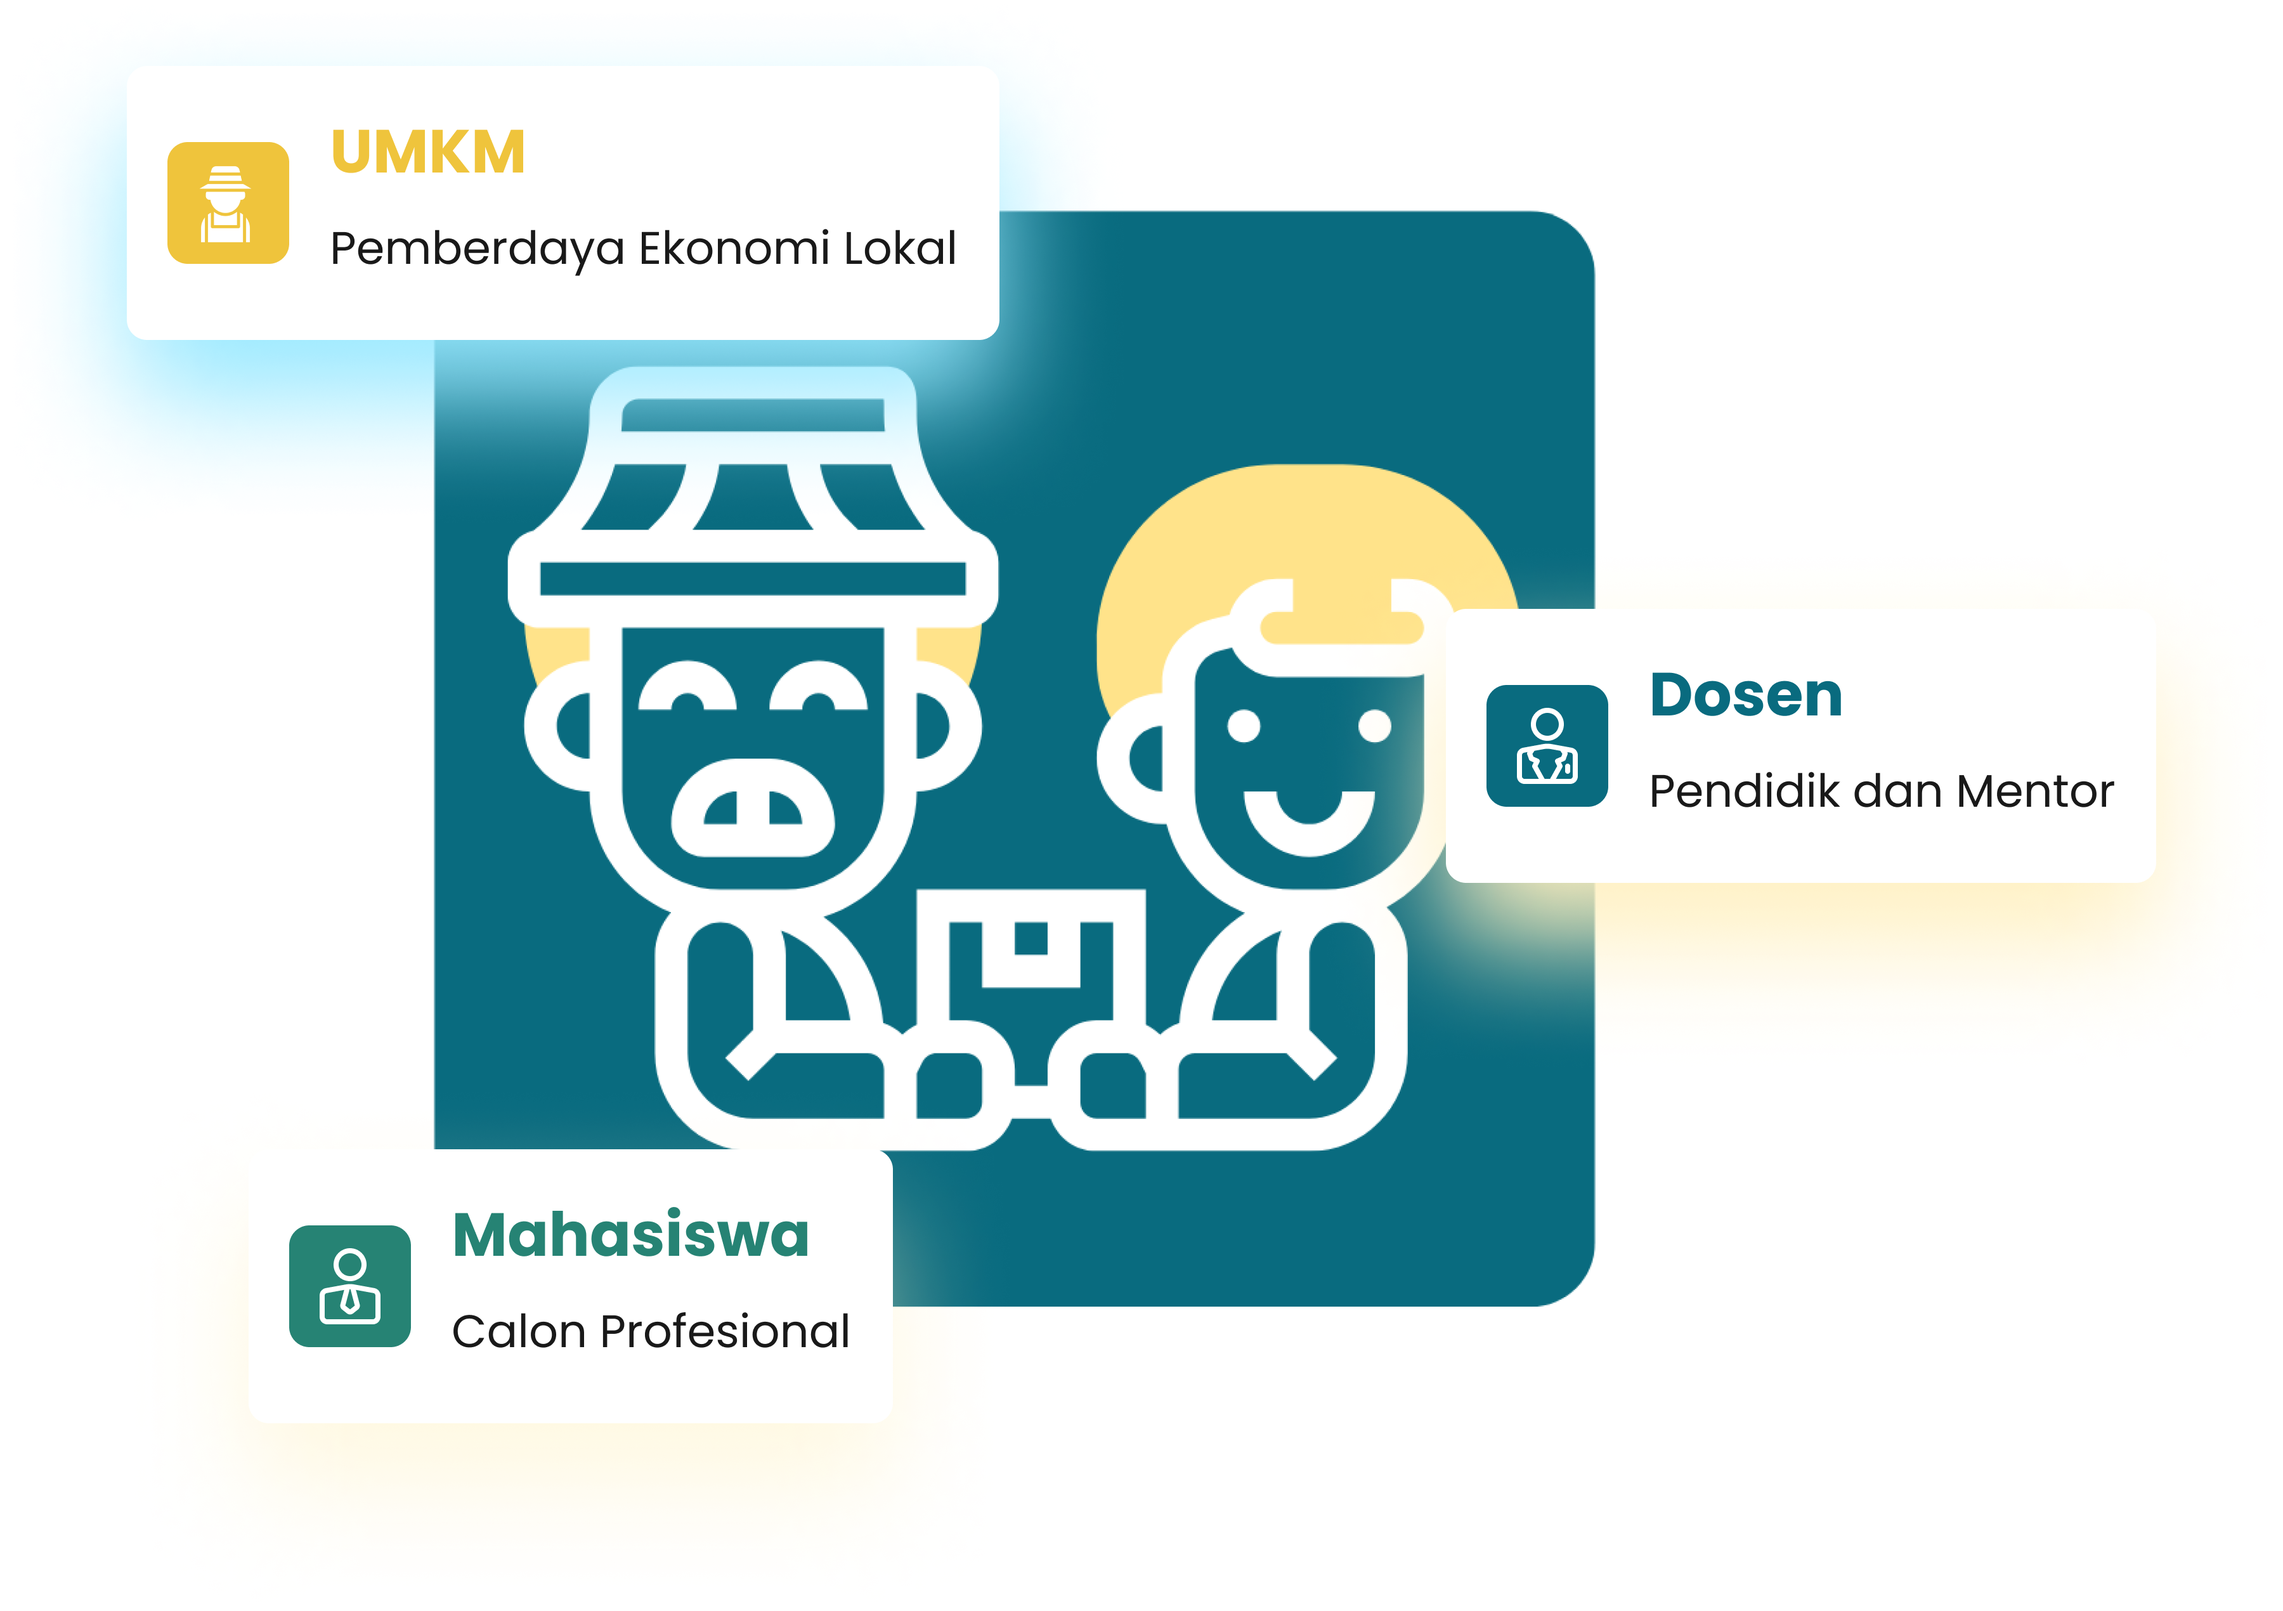
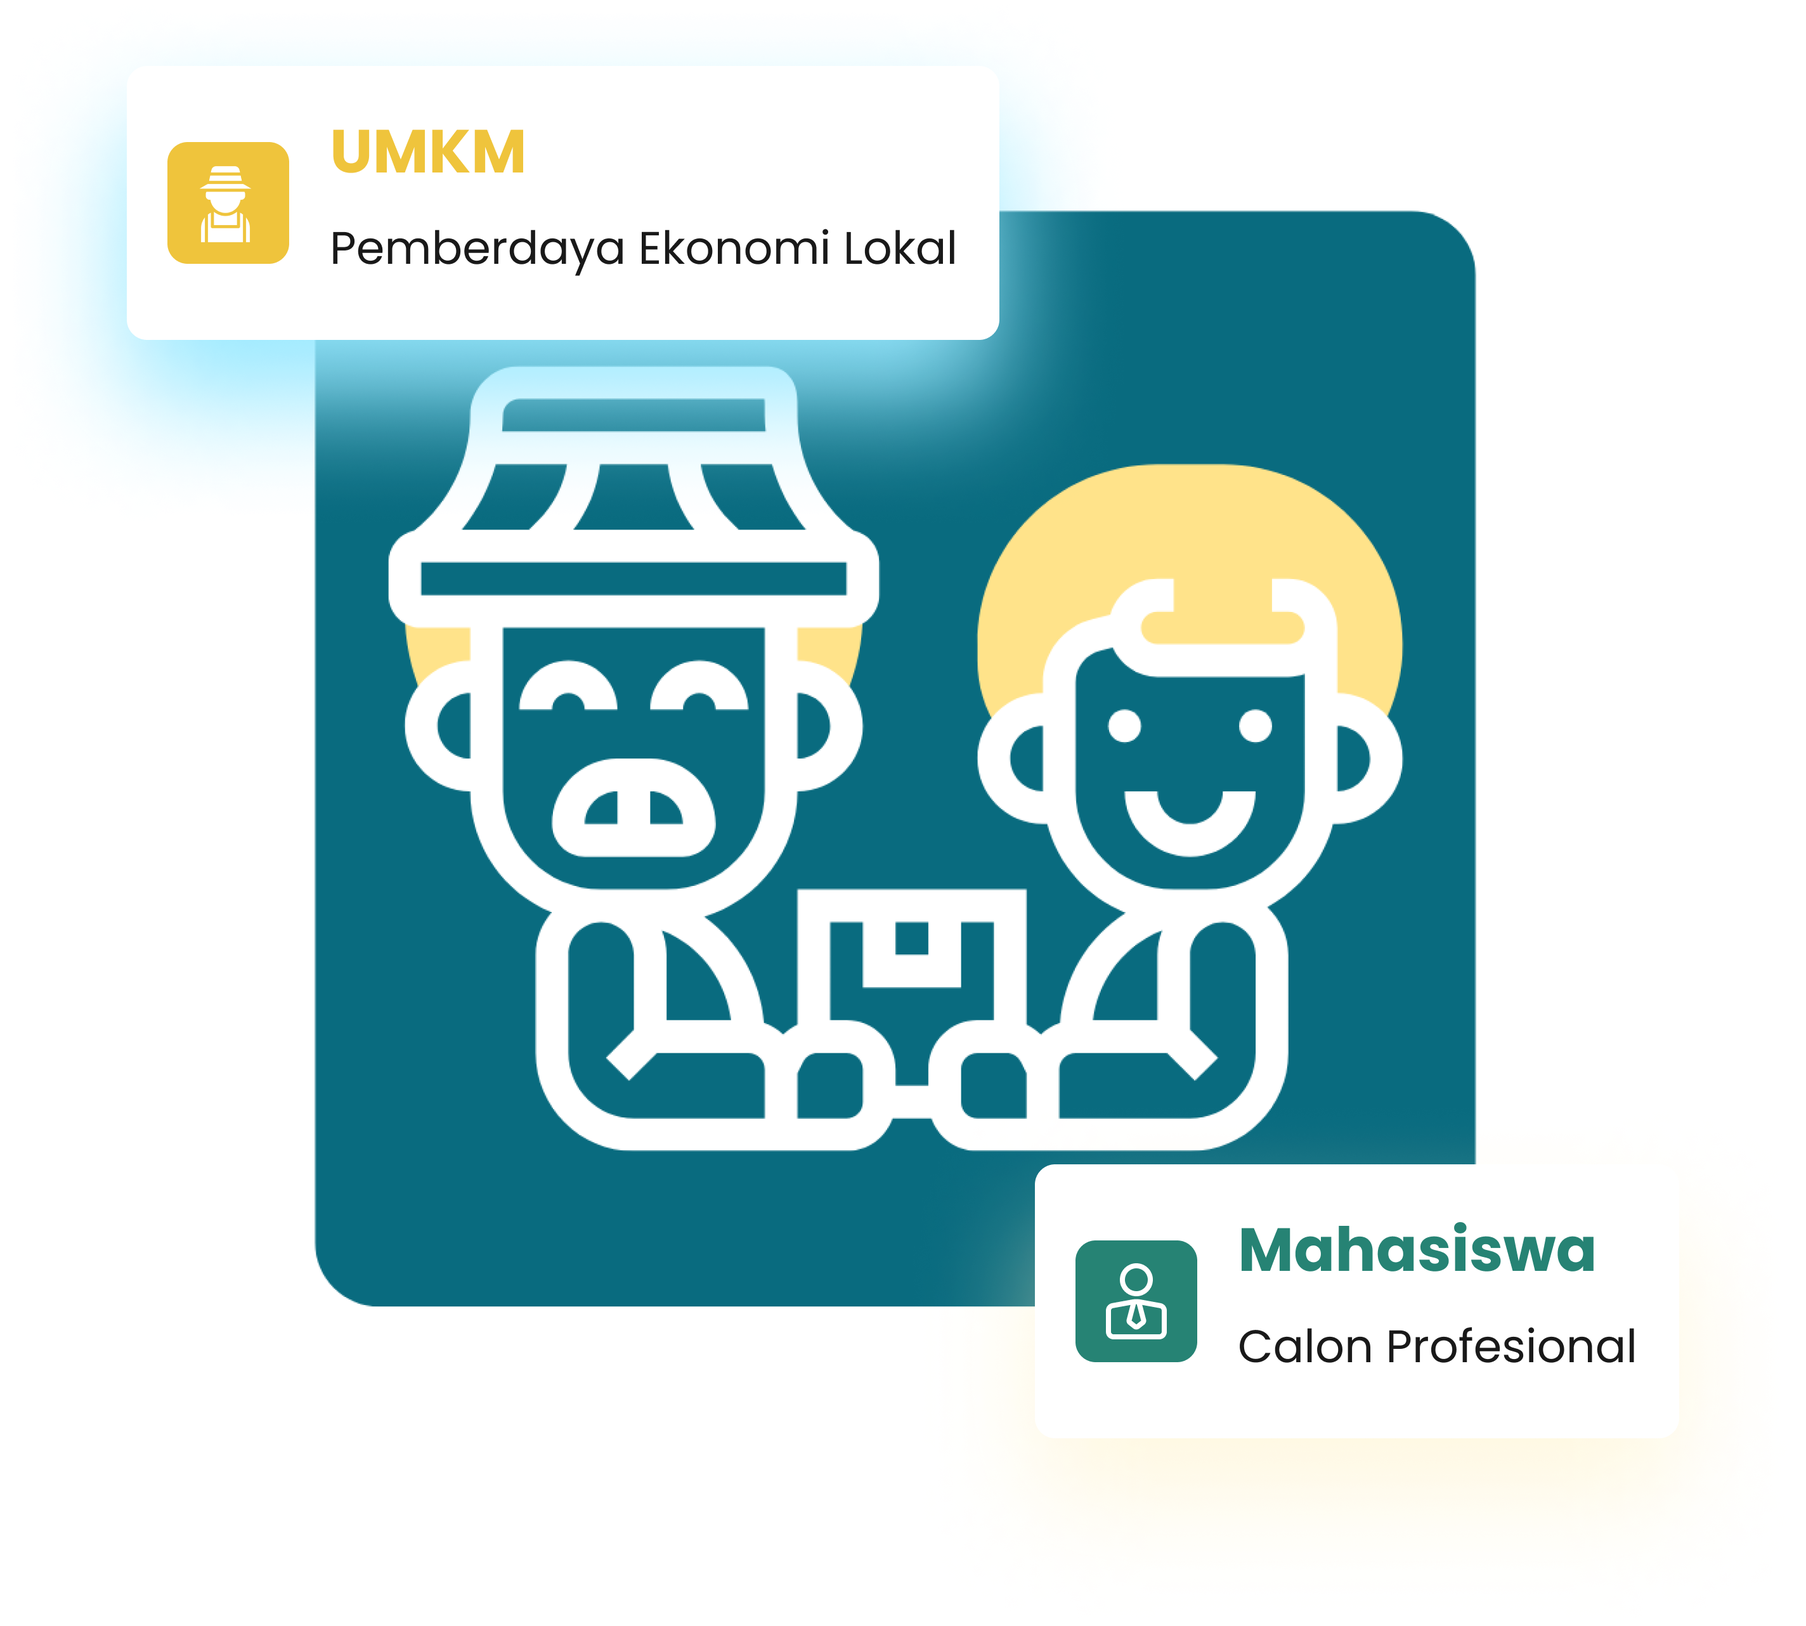
95Persen

Changed region(s): [[0.0312, 0.0622, 0.9688, 0.8398], [0.625, 0.8709, 0.875, 0.902], [0.125, 0.8709, 0.3438, 0.902]]

diff --git a/resources/views/index.blade.php b/resources/views/index.blade.php
@@ -87,19 +87,19 @@ Explore More
       <img src="{{ asset ('assets/img/LogoUMKM3.png')}}" alt="Logo UMKM" class="h-full max-w-full object-contain grayscale hover:grayscale-0 transition duration-300 ease-in-out">
     </div>
     <div class="item item4 w-[200px] h-[100px] flex items-center justify-center transition duration-300 ease-in-out hover:scale-105">
-      <img src="{{ asset ('assets/img/LogoUMKM1.png')}}" alt="Logo UMKM" class="h-full max-w-full object-contain grayscale hover:grayscale-0 transition duration-300 ease-in-out">
+      <img src="{{ asset ('assets/img/LogoUMKM4.png')}}" alt="Logo UMKM" class="h-full max-w-full object-contain grayscale hover:grayscale-0 transition duration-300 ease-in-out">
     </div>
     <div class="item item5 w-[200px] h-[100px] flex items-center justify-center transition duration-300 ease-in-out hover:scale-105">
-      <img src="{{ asset ('assets/img/LogoUMKM1.png')}}" alt="Logo UMKM" class="h-full max-w-full object-contain grayscale hover:grayscale-0 transition duration-300 ease-in-out">
+      <img src="{{ asset ('assets/img/LogoUMKM5.png')}}" alt="Logo UMKM" class="h-full max-w-full object-contain grayscale hover:grayscale-0 transition duration-300 ease-in-out">
     </div>
     <div class="item item6 w-[200px] h-[100px] flex items-center justify-center transition duration-300 ease-in-out hover:scale-105">
-      <img src="{{ asset ('assets/img/LogoUMKM1.png')}}" alt="Logo UMKM" class="h-full max-w-full object-contain grayscale hover:grayscale-0 transition duration-300 ease-in-out">
+      <img src="{{ asset ('assets/img/LogoUMKM6.png')}}" alt="Logo UMKM" class="h-full max-w-full object-contain grayscale hover:grayscale-0 transition duration-300 ease-in-out">
     </div>
     <div class="item item7 w-[200px] h-[100px] flex items-center justify-center transition duration-300 ease-in-out hover:scale-105">
-      <img src="{{ asset ('assets/img/LogoUMKM1.png')}}" alt="Logo UMKM" class="h-full max-w-full object-contain grayscale hover:grayscale-0 transition duration-300 ease-in-out">
+      <img src="{{ asset ('assets/img/LogoUMKM7.png')}}" alt="Logo UMKM" class="h-full max-w-full object-contain grayscale hover:grayscale-0 transition duration-300 ease-in-out">
     </div>
     <div class="item item8 w-[200px] h-[100px] flex items-center justify-center transition duration-300 ease-in-out hover:scale-105">
-      <img src="{{ asset ('assets/img/LogoUMKM1.png')}}" alt="Logo UMKM" class="h-full max-w-full object-contain grayscale hover:grayscale-0 transition duration-300 ease-in-out">
+      <img src="{{ asset ('assets/img/LogoUMKM8.png')}}" alt="Logo UMKM" class="h-full max-w-full object-contain grayscale hover:grayscale-0 transition duration-300 ease-in-out">
     </div>
   </div>
 </section>
@@ -243,18 +243,7 @@ Explore More
         </div>
       </div>
 
-      <!-- Benefit 3 -->
-      <div class="flex items-start space-x-4">
-        <div class="p-3">
-          <img src="{{ asset('assets/img/Dosen.png') }}" alt="">
-        </div>
-        <div>
-          <h3 class="text-xl font-semibold text-gray-900">Dosen</h3>
-          <p class="text-gray-600">✔ <span class="font-bold ">Platform Pengajaran Praktis: </span>Gerai UMKM menyediakan platform yang memungkinkan dosen melibatkan mahasiswa dalam proyek nyata, sehingga pembelajaran lebih mendalam.</p>
-          <p class="text-gray-600">✔ <span class="font-bold ">Kolaborasi dengan UMKM: </span>Pendidik dapat bekerja sama dengan UMKM untuk memberikan pengalaman belajar berbasis proyek dan memberikan dampak nyata bagi masyarakat.</p>
-          <p class="text-gray-600">✔ <span class="font-bold ">Riset dan Pengembangan:</span>Melalui proyek riset bersama mahasiswa dan UMKM, dosen dapat mendukung pengembangan UMKM dan berkontribusi pada ilmu kewirausahaan dan teknologi.</p>
-        </div>
-      </div>
+      
     </div>
   </div>
 </section>
@@ -364,7 +353,7 @@ Explore More
 
   <!-- View All Button -->
   <div class="text-center mt-8">
-    <a href="#" class="text-teal-600 border border-teal-600 px-4 py-2 rounded-full font-semibold hover:bg-teal-600 hover:text-white transition duration-200">
+    <a href="{{ route('event') }}" class="text-teal-600 border border-teal-600 px-4 py-2 rounded-full font-semibold hover:bg-teal-600 hover:text-white transition duration-200">
       Lihat Semua
     </a>
   </div>
